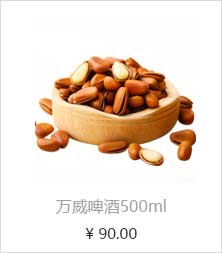
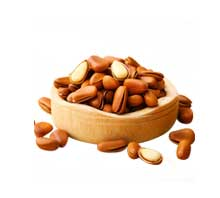
web 07

diff --git a/index.html b/index.html
@@ -2,7 +2,7 @@
 <html lang="en">
     <head>
         <meta charset="utf-8">
-        <link rel="stylesheet" type="text/css" href="任务七.style.css">
+        <link rel="stylesheet" type="text/css" href="任务07.style.css">
         <div id="head">
         <div class="head">
         	<div class="head_left">
@@ -10,7 +10,7 @@
         	<span>E族之家手机版</span>
         	<a href="#">
         	<img src="images/作业设计图_06.jpg"/>
-        	<span style="text-decoration: none">328203328</span>
+        	<span style="text-decoration:none">328203328</span>
             </a>
             </div>
             <div class="head_right">
@@ -45,7 +45,7 @@
     		        <li><a href="#">首页</a></li>
     		        <li><a href="#">E族生活</a></li>
     		        <li><a href="#">E族服务</a></li>
-    		        <li><a href="#" class="visited">E族爱心</a></li>
+    		        <li><a href="#" id="visited">E族爱心</a></li>
     	        </ul>
             </div>
 	    </div>
@@ -66,14 +66,46 @@
 	    </div>
         <div class="images" style="float:right">
     	    <ul>
-    		<li><img src="images/作业设计图_14.jpg"></li>
-    		<li><img src="images/作业设计图_16.jpg"></li>
-    		<li><img src="images/作业设计图_18.jpg"></li>
-    		<li><img src="images/作业设计图_20.jpg"></li>
-    		<li><img src="images/作业设计图_14.jpg"></li>
-    		<li><img src="images/作业设计图_16.jpg"></li>
-    		<li><img src="images/作业设计图_18.jpg"></li>
-    		<li><img src="images/作业设计图_20.jpg"></li>
+    		<li href="#">
+                <img src="images/作业设计图_14.jpg">
+                <p>精品辣椒</p>
+                <p><span>¥90.00</span></p>
+            </li>
+    		<li href="#">
+                <img src="images/作业设计图_16.jpg">
+                <p>特级百香果3斤</p>
+                <p><span>¥90.00</span></p>
+            </li>
+    		<li href="#">
+                <img src="images/作业设计图_18.jpg">
+                <p>万威啤酒</p>
+                <p><span>¥90.00</span></p>
+            </li>
+    		<li href="#">
+                <img src="images/作业设计图_20.jpg">
+                <p>万威啤酒</p>
+                <p><span>¥90.00</span></p>
+            </li>
+    		<li href="#">
+                <img src="images/作业设计图_14.jpg">
+                <p>精品辣椒</p>
+                <p><span>¥90.00</span></p>
+            </li>
+    		<li href="#">
+                <img src="images/作业设计图_16.jpg">
+                <p><span>特级百香果</span></p>
+                <p><span>¥90.00</span></p>
+            </li>
+    		<li href="#">
+                <img src="images/作业设计图_18.jpg">
+                 <p>万威啤酒</p>
+                 <p><span>¥90.00</span></p>
+            </li>
+    		<li href="#">
+                <img src="images/作业设计图_20.jpg">
+                <p>万威啤酒</p>
+                <p><span>¥90.00</span></p>
+            </li>
     	    </ul>
         </div>
 	</div>
@@ -86,7 +118,7 @@
 				        <li><a href="#">购物流程</a></li>
 				        <li><a href="#">订购方式</a></li>
 				    </ul>
-				    <ul>
+				    <ul> 
 					    <li>配送方式</li>
 				        <li><a href="#">货到付款区域</a></li> 
 				        <li><a href="#">配送支付查询</a></li>

diff --git a/任务07.style.css b/任务07.style.css
@@ -9,7 +9,7 @@
 }
 .head{
 	width:1200px;
-	height:32px;
+	height:33px;
 	margin:0 auto;
 	line-height:32px;
 }
@@ -18,7 +18,6 @@
 }
 .head_right{
 	float:right;
-	font-size:12px;
 	color:black;
 }
 .head_right span{
@@ -32,6 +31,7 @@
 }
 .head span a{
 	text-decoration:none;
+	color:black;
 }
 .saomiao{
     position:relative;
@@ -59,7 +59,7 @@ body{
 }
 .search form input:nth-child(1){
 	width:385px;
-	height:36px;
+	height:34px;
 	padding-left:18px;
 	padding-top:1px;
 	font-size:13px;
@@ -70,7 +70,7 @@ body{
 	width:92px;
 	height:38px;
 	border:1px solid #f83838;
-		background-color:#f83838;
+	background-color:#f83838;
 	color:#fff;
 	font-size:18px;
 	margin-left:-8px;
@@ -113,15 +113,16 @@ body{
 }
 .list_1 li{
 	width:89px;
-	height:33px;
+	height:35px;
 	padding:0px 54px;
 	font-size:16px;
 	float:left;
 }
 .list_1 li a{
 	text-decoration:none;
+    color:black;
 }
-.visited{
+#visited{
 	background-color:rgb(253,3,4);
     color:rgb(255,221,221);
     border-radius:8px;
@@ -163,11 +164,25 @@ body{
    background-color:rgb(255,255,255);
 }
 .images ul li{
+	width:220px;
+	height:254px;
     float:left;
     list-style:none;
-    padding-top:20px;
-    padding-left:17px;
+    margin-top:18px;
+    margin-left:17px;
+    border:1px solid rgb(219,219,219);
 }
+.images ul li p{
+	text-align:center;
+	font-size:16px;
+	line-height:20px;
+    color:rgb(163,163,163);
+}
+.images ul li p span{
+	color:rgb(51,51,51);
+	font-size:15px;
+}
+
 .up{
 	width:auto;
 	height:247px;
